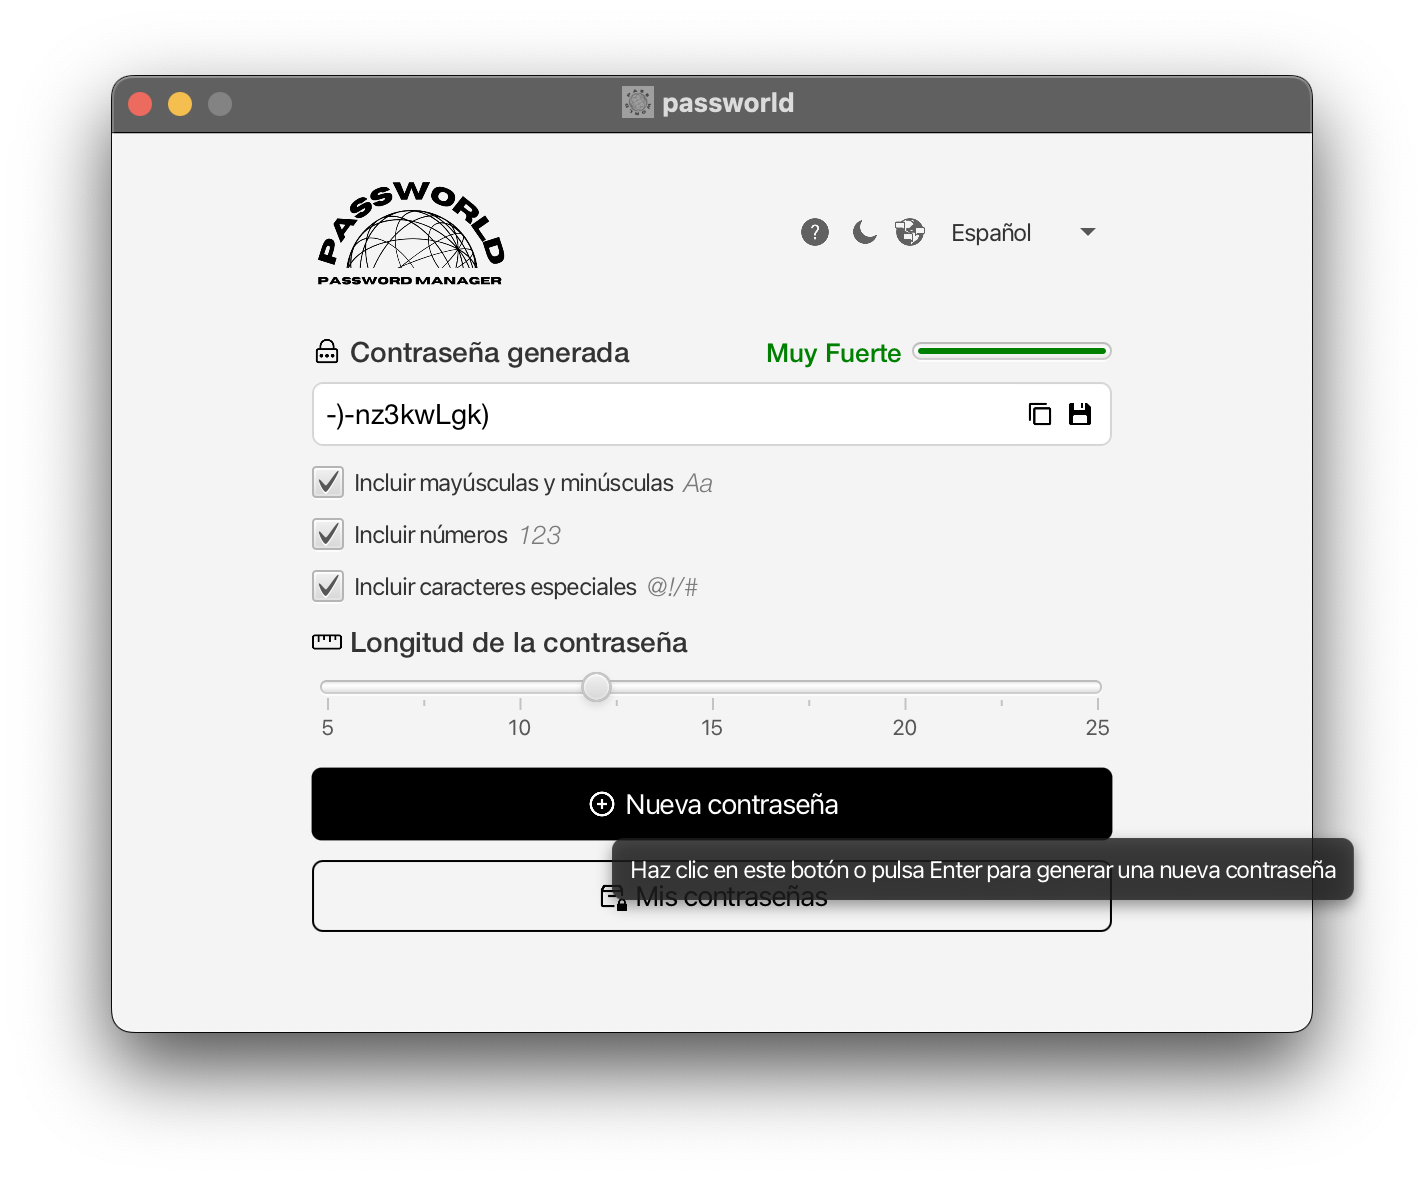
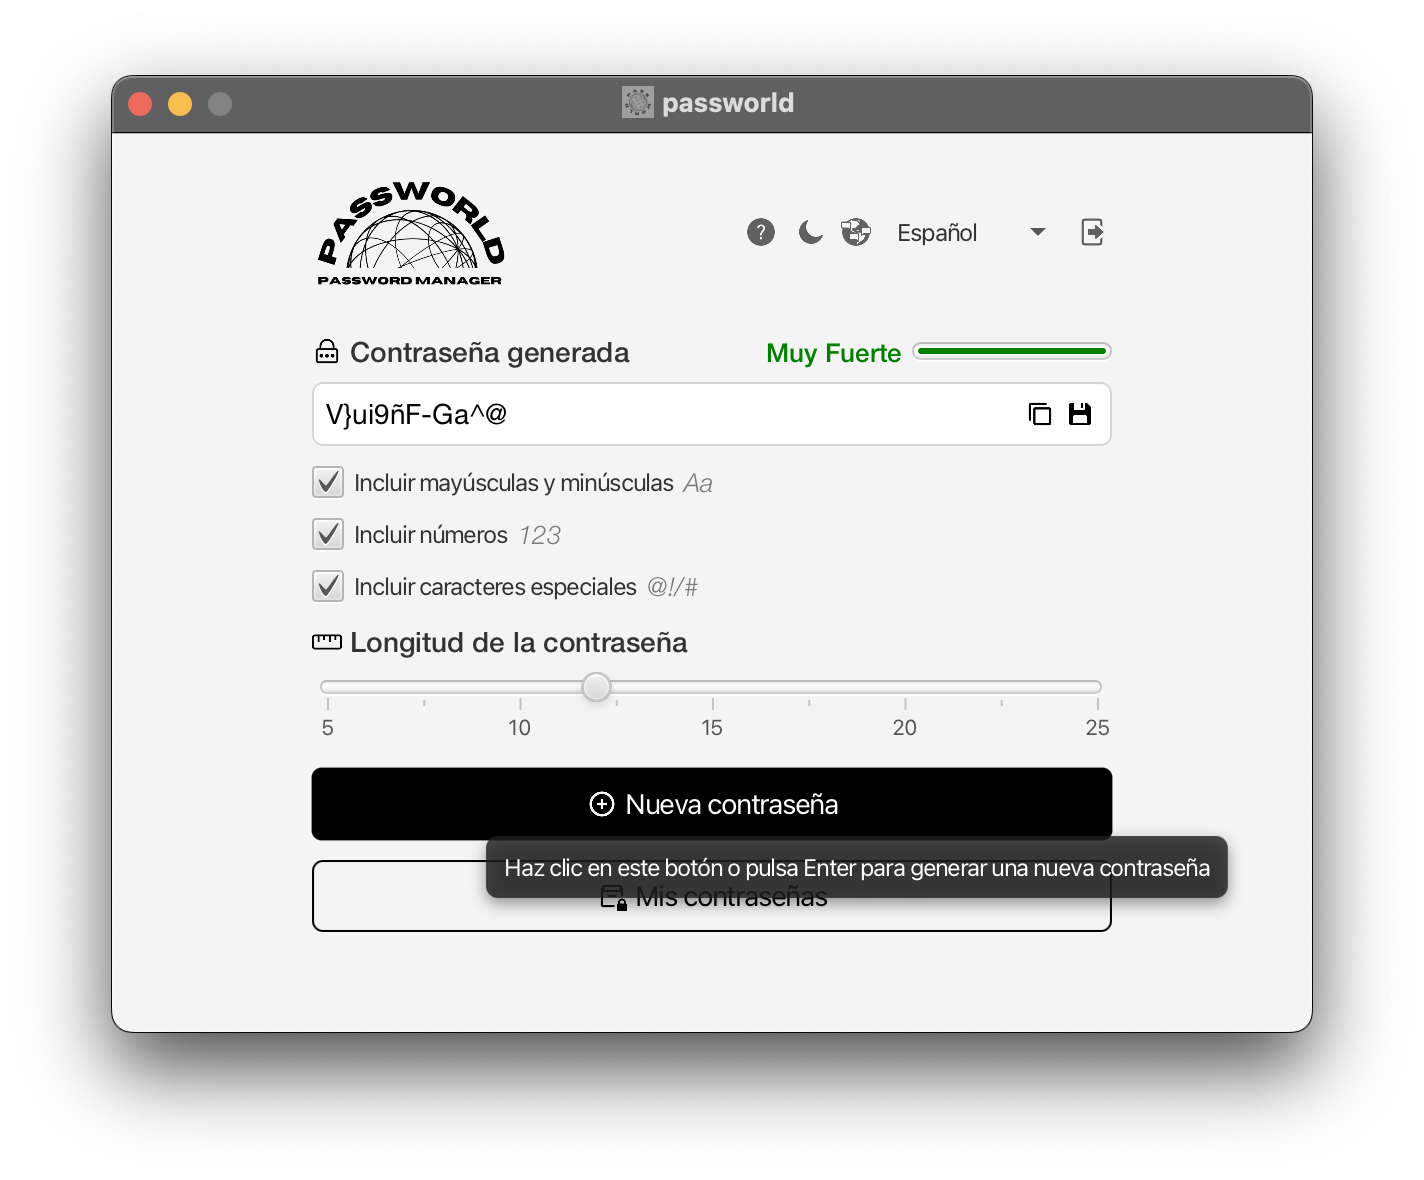
Update

Changed region(s): [[0.3399, 0.7017, 0.9579, 0.7932], [0.5253, 0.1831, 0.7725, 0.2136], [0.2163, 0.3356, 0.3708, 0.3661]]

diff --git a/help.html b/help.html
@@ -35,6 +35,7 @@
                     <li><a href="#first-steps">Primeros pasos</a></li>
                     <li><a href="#log-in">Iniciar sesión</a></li>
                     <li><a href="#sign-up">Registrarse</a></li>
+                    <li><a href="#log-out">Cerrar sesión</a></li>
                     <hr>
                     <li><a href="#language">Cambiar idioma</a></li>
                     <li><a href="#theme">Cambiar tema</a></li>
@@ -101,6 +102,12 @@
             </section>
 
             <hr>
+
+            <section id="log-out">
+                <h1>Cerrar sesión</h1>
+                <p>Para cerrar sesión es necesario que haya una sesión activa. <br>Se deberá pulsar el botón situado en la parte superior derecha únicamente de la ventana principal de la aplicación. <br>Se te pedirá confirmación</p>
+                <img src="images/log-out-example.png" alt="Ejemplo de cierre de sesión">
+                <p>Una vez cerrada la sesión, volverás a la ventana de inicio de sesión/registro</p>
 
             <section id="language">
                 <h1>Cambiar idioma</h1>
